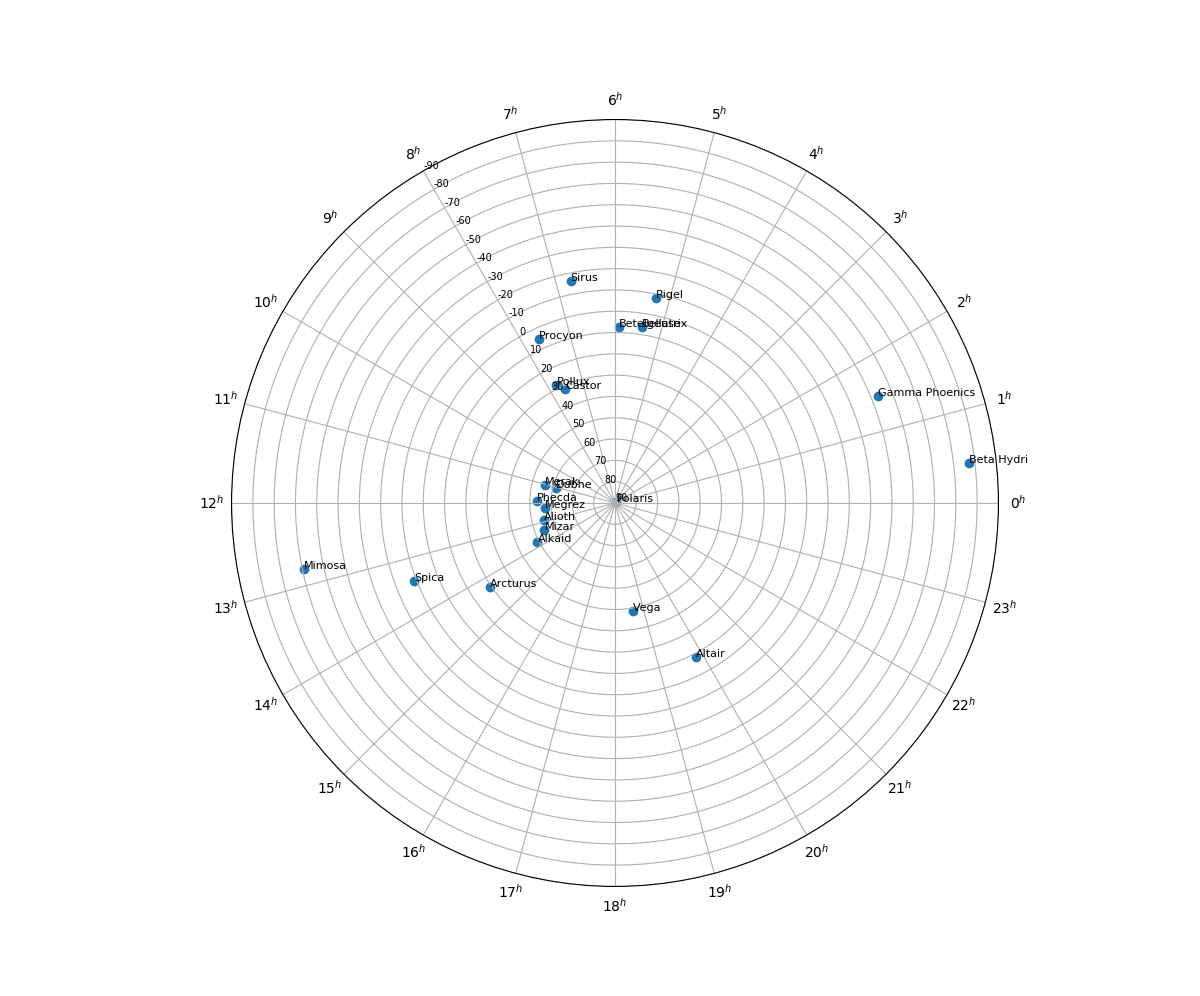
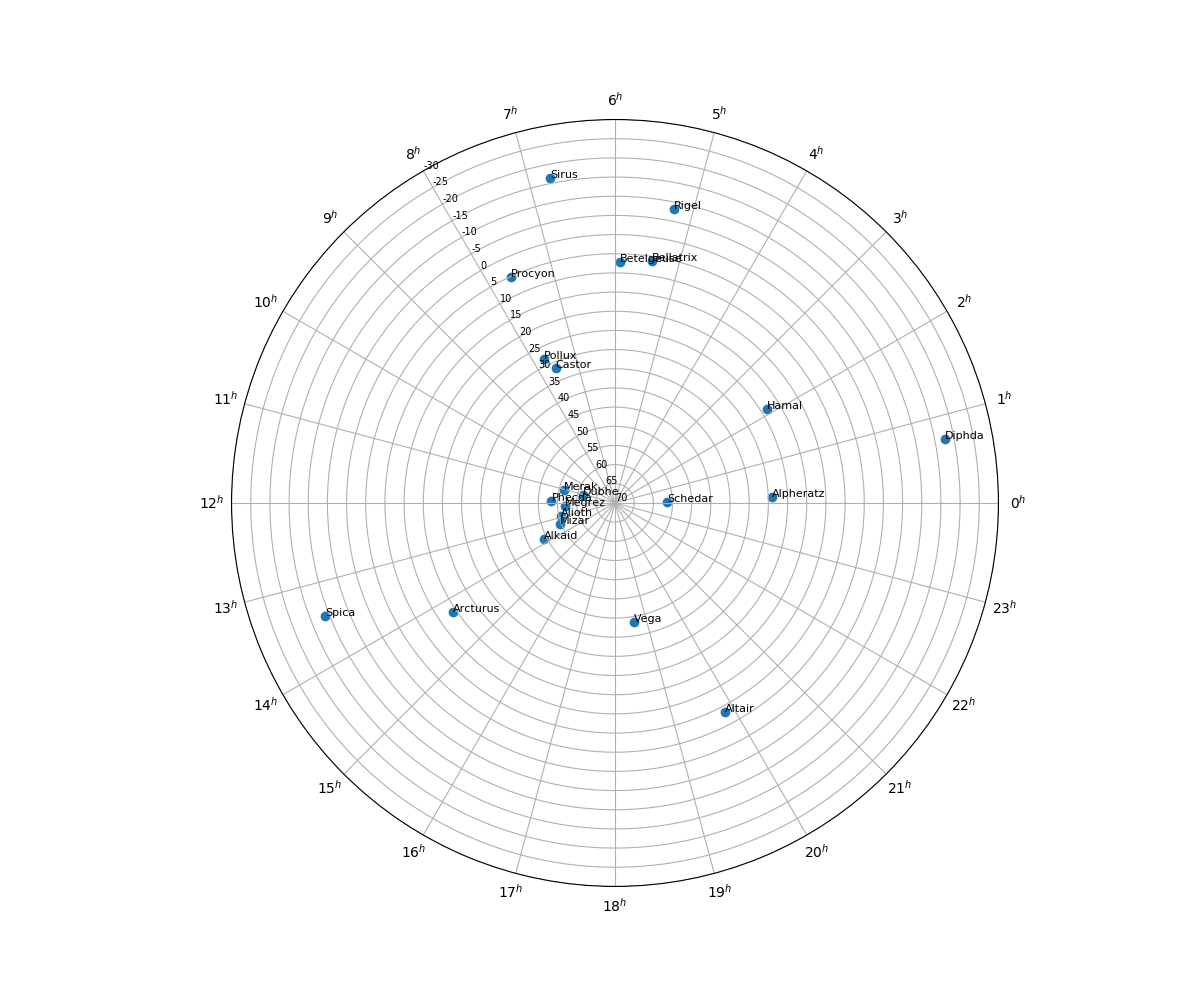
added stars to north/south hemisphere to chart

Changed region(s): [[0.2158, 0.1245, 0.8325, 0.8715]]

diff --git a/page_x_astrolabe/generate_star_chart.py b/page_x_astrolabe/generate_star_chart.py
@@ -52,7 +52,6 @@ def plotCircluar(star_list, northOrSouth, displayStarNamesLabels, displayDeclina
 			plt.yticks(declination_values, fontsize=7)
 			ax.set_yticklabels(ax.get_yticks()[::-1])
 			ax.set_rlabel_position(120)
-			#ax.set_rlim(bottom=70, top=-30)
 		else:
 			plt.yticks(declination_values, fontsize=0) # do not display axis
 
@@ -83,11 +82,12 @@ def plotCircluar(star_list, northOrSouth, displayStarNamesLabels, displayDeclina
 	for star in star_list:
 		x_star_labels.append(star[0])
 		x_ra_values.append(star[1])
+		
 		# flip the declination values to match the flipped declination marks
 		y_pos = (max_dec_value - star[2]) + min_dec_value
-		print("{0} = {1} = {2:4f}".format(star[0], star[2], y_pos))
-		print("{0} - {1} = {2:4f}".format(max_dec_value, star[2], max_dec_value - star[2]))
-		print("{0} + {1} = {2:4f}\n".format(max_dec_value - star[2], min_dec_value, y_pos))
+		#print("{0} = {1} = {2:4f}".format(star[0], star[2], y_pos))
+		#print("{0} - {1} = {2:4f}".format(max_dec_value, star[2], max_dec_value - star[2]))
+		#print("{0} + {1} = {2:4f}\n".format(max_dec_value - star[2], min_dec_value, y_pos))
 		y_dec_values.append(y_pos)
 	ax.scatter(x_ra_values, y_dec_values)
 
@@ -101,56 +101,70 @@ def plotCircluar(star_list, northOrSouth, displayStarNamesLabels, displayDeclina
 
 if __name__ == '__main__':
 	# stars to be included: 'name', ra HH.MM.SS, declination DD.SS
-	# Northern stars
-	sirus_star = ["Sirus", "06.45.08", -16.42]
-	dubhe_star = ["Dubhe", "11.03.43", 61.45]
-	megrez_star = ["Megrez", "12.15.25", 57.01]
-	merak_star = ["Merak", "11.01.50", 56.22]
-	phecda_star = ["Phecda", "11.53.49", 53.41]
+	# Northern stars (+ declination)
 	alioth_star = ["Alioth", "12.54.01", 55.57]
-	mizar_star = ["Mizar", "13.23.55", 54.55]
 	alkaid_star = ["Alkaid", "13.47.32", 49.18]
-	polaris_star = ["Polaris", "02.31.49", 89.15]
-	betelgeuse_star = ["Betelgeuse", "05.55.10", 7.24]
-	rigel_star = ["Rigel", "05.14.32", -8.12]
-	spica_star = ["Spica", "13.25.11", -11.09]
-	vega_star = ["Vega", "18.36.56", 38.47]
+	alpheratz_star = ["Alpheratz", "00.08.23", 29.05]
 	altair_star = ["Altair", "19.50.46", 8.52]
-	procyon_star = ["Procyon", "07.39.18", 5.13]
-	pollux_star = ["Pollux", "07.45.18", 28.01]
-	castor_star = ["Castor", "07.34.35", 31.53]
 	arcturus_star = ["Arcturus", "14.15.39", 19.10]
 	bellatrix_star = ["Bellatrix", "05.25.07", 6.20]
-	#Southern stars
-	mimosa_star = ["Mimosa", "12.47.43", -59.41]
-	gamma_phoenics_star = ["Gamma Phoenics", "01.28.21", -43.19]
+	betelgeuse_star = ["Betelgeuse", "05.55.10", 7.24]
+	castor_star = ["Castor", "07.34.35", 31.53]
+	dubhe_star = ["Dubhe", "11.03.43", 61.45]
+	hamal_star = ["Hamal", "02.07.10", 23.27]
+	megrez_star = ["Megrez", "12.15.25", 57.01]
+	merak_star = ["Merak", "11.01.50", 56.22]
+	mizar_star = ["Mizar", "13.23.55", 54.55]
+	polaris_star = ["Polaris", "02.31.49", 89.15]
+	pollux_star = ["Pollux", "07.45.18", 28.01]
+	phecda_star = ["Phecda", "11.53.49", 53.41]
+	procyon_star = ["Procyon", "07.39.18", 5.13]
+	schedar_star = ["Schedar", "00.04.30", 56.32]
+	spica_star = ["Spica", "13.25.11", -11.09]
+	vega_star = ["Vega", "18.36.56", 38.47]
+	#Southern stars (- declination)
+	achernar_star = ["Achernar", "01.37.42", -57.14]
+	ankaa_star = ["Ankaa", "00.26.17", -42.18]
 	beta_hydri_star = ["Beta Hydri", "00.25.45", -77.15]
+	diphda_star = ["Diphda", "00.43.35", -17.59]
+	gamma_phoenics_star = ["Gamma Phoenics", "01.28.21", -43.19]
+	mimosa_star = ["Mimosa", "12.47.43", -59.41]
+	rigel_star = ["Rigel", "05.14.32", -8.12]
+	sirus_star = ["Sirus", "06.45.08", -16.42]
+	theta_eridani_star = ["Theta Eridani", "02.58.15", -40.18]
 
 	# add stars to total star list
-	northern_star_chart_list = [sirus_star,
+	northern_star_chart_list = [alioth_star,
+								alkaid_star,
+								alpheratz_star,
+								altair_star,
+								arcturus_star,
+								bellatrix_star,
+								betelgeuse_star,
+								castor_star,
 								dubhe_star,
+								hamal_star,
 								megrez_star,
 								merak_star,
-								phecda_star,
-								alioth_star,
 								mizar_star,
-								alkaid_star,
 								polaris_star,
-								betelgeuse_star,
-								rigel_star,
-								spica_star,
-								vega_star,
-								altair_star,
-								procyon_star,
 								pollux_star,
-								castor_star,
-								arcturus_star,
-								bellatrix_star
+								phecda_star,
+								procyon_star,
+								schedar_star,
+								spica_star,
+								vega_star
 								]
 
-	southern_star_chart_list = [mimosa_star,
+	southern_star_chart_list = [achernar_star,
+								ankaa_star,
+								beta_hydri_star,
+								diphda_star,
 								gamma_phoenics_star,
-								beta_hydri_star
+								mimosa_star,
+								rigel_star,
+								sirus_star,
+								theta_eridani_star
 								]
 
 	star_chart_list = northern_star_chart_list + southern_star_chart_list
@@ -163,6 +177,6 @@ if __name__ == '__main__':
 	# Chart options
 	displayStarNames = True # display chart with star names (False/True)
 	displayDeclinationNumbers = True # display declination marks (False/True)
-	northOrSouth = "Both" # options: "North", "South", "Both" (changes the declination range)
+	northOrSouth = "North" # options: "North", "South", "Both" (changes the declination range)
 
 	plotCircluar(star_chart_list, northOrSouth, displayStarNames, displayDeclinationNumbers)
